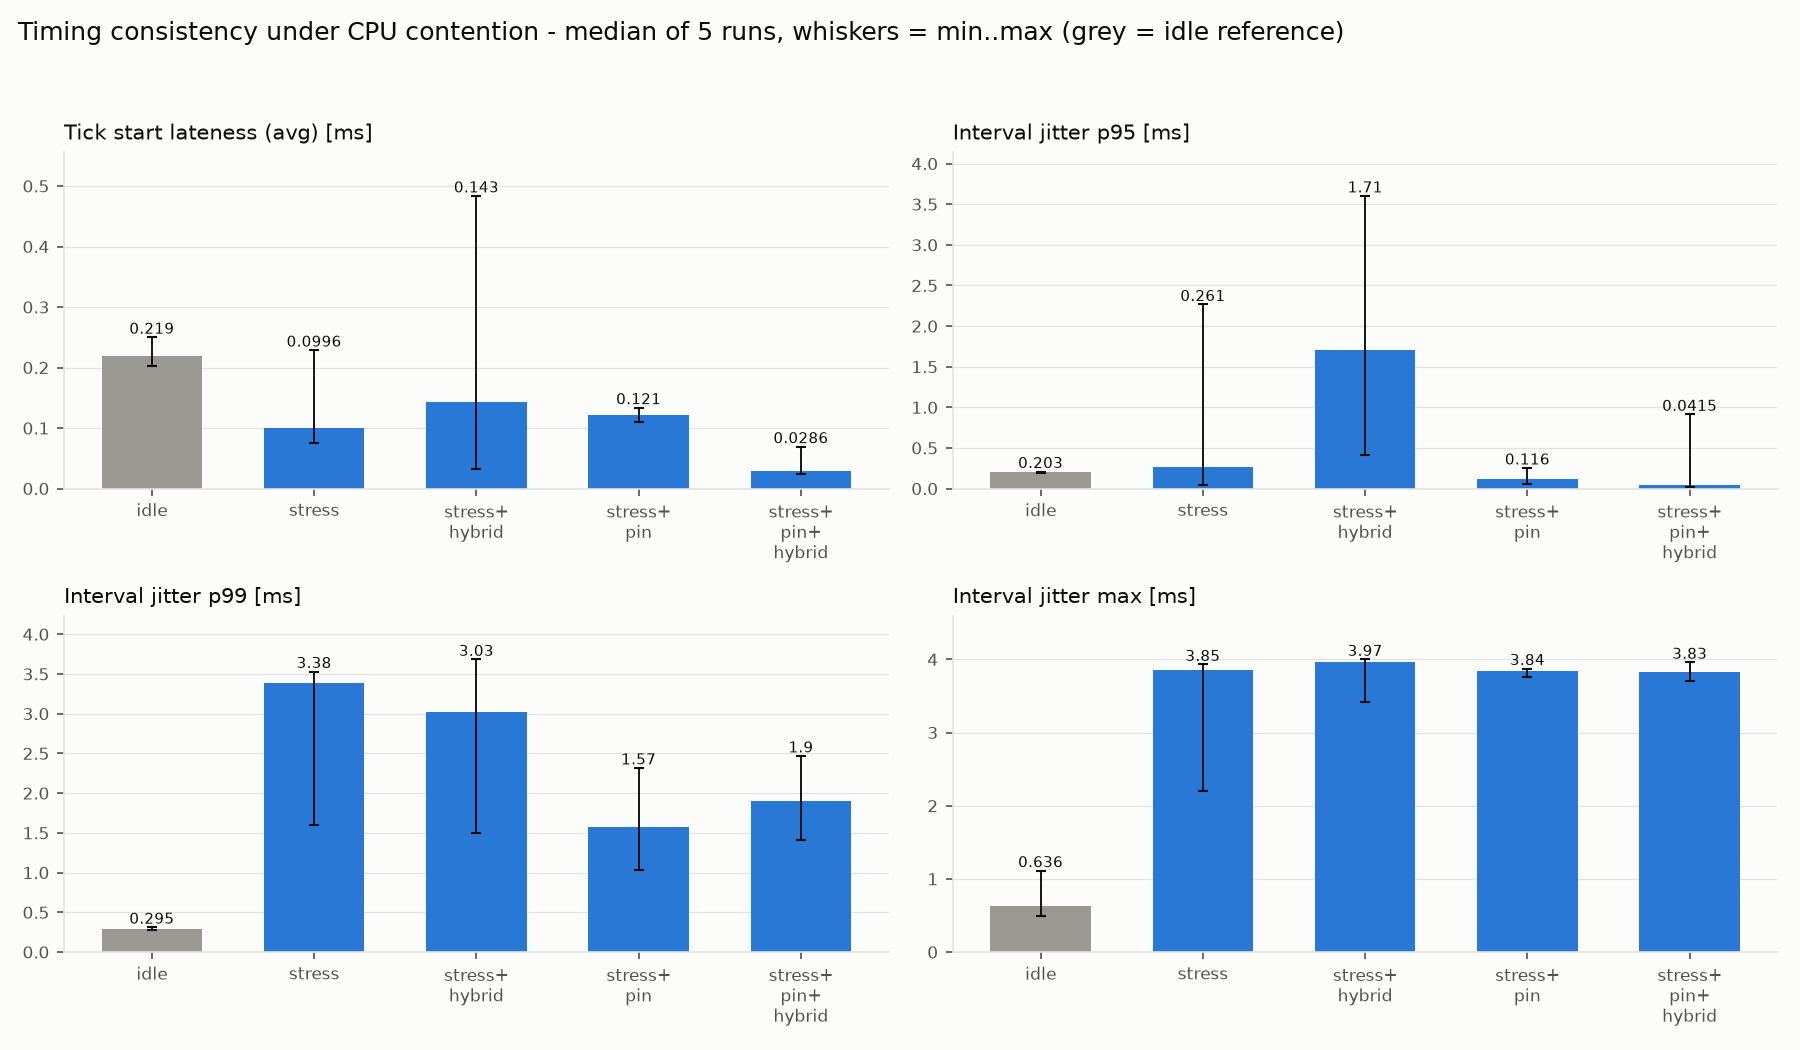
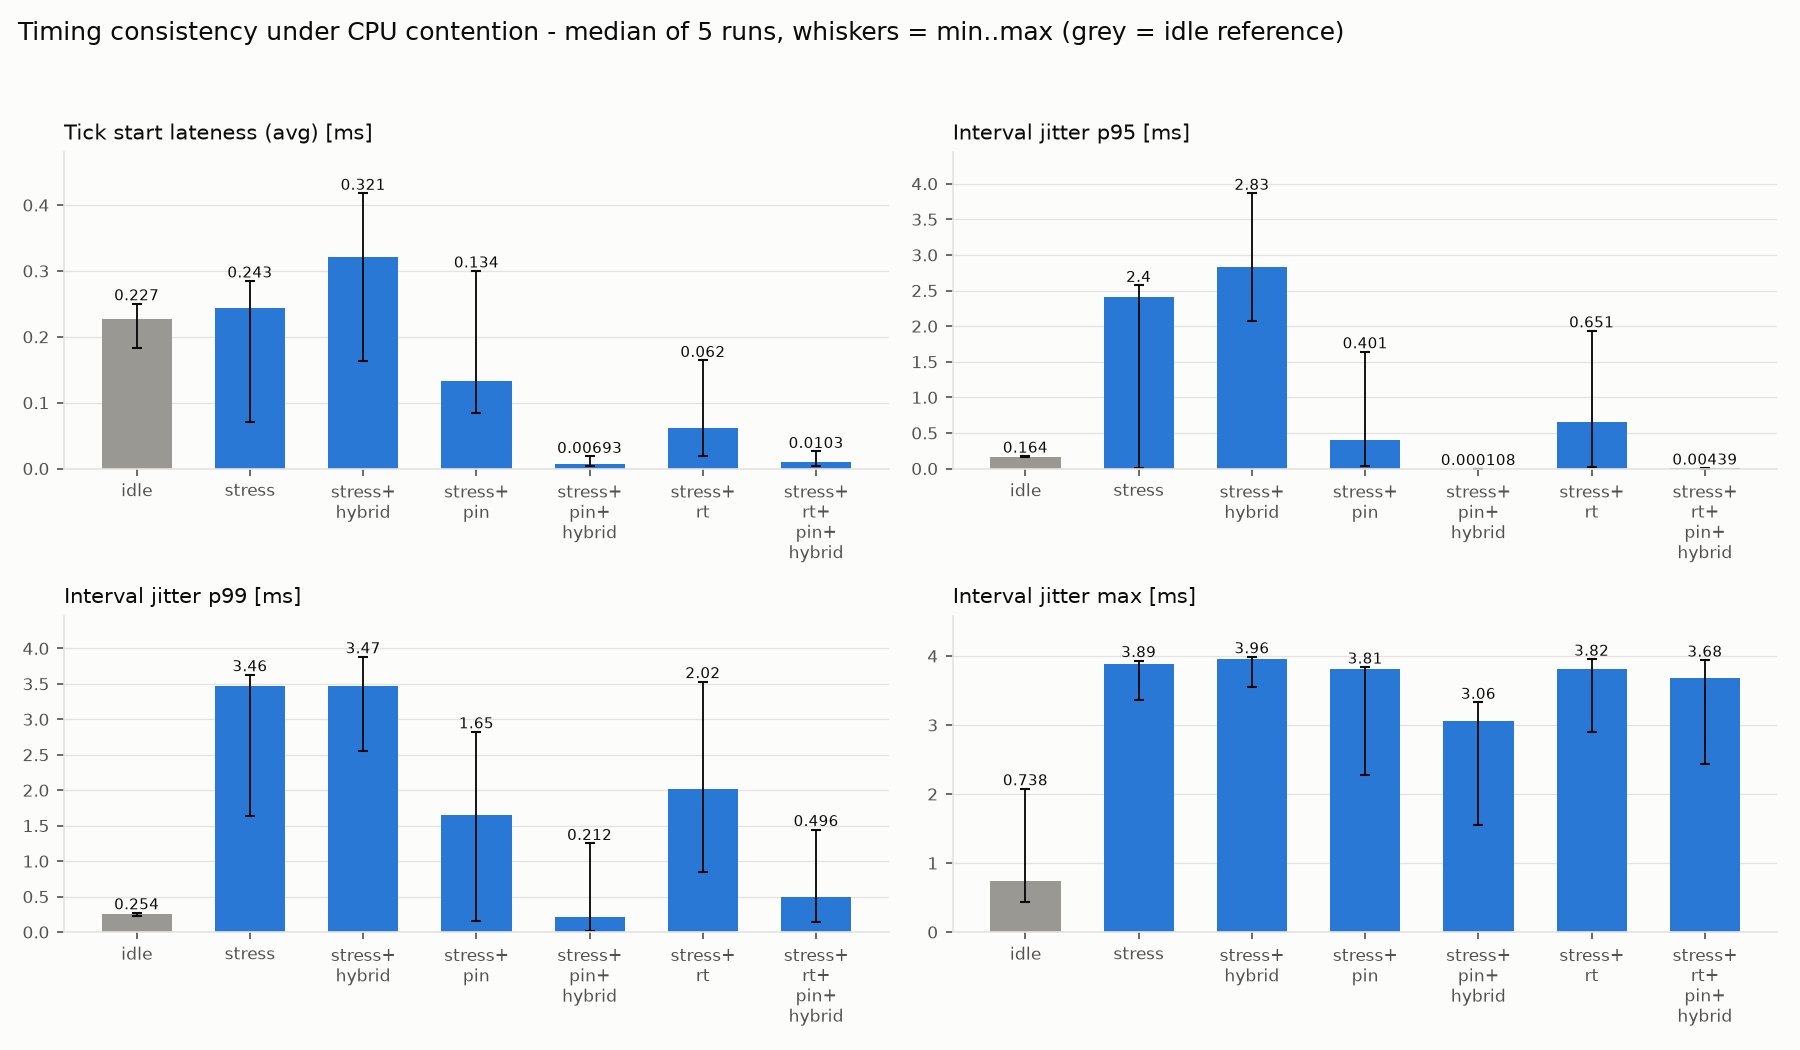
Update timing/age benchmark results with SCHED_FIFO runs
Re-run bench_extra.sh (5 x 10 s) with sudo so the stress+rt and
stress+rt+pin+hybrid configurations are included, regenerate the
summary tables and figures, and update the README results and
limitations accordingly. Also mark the shell scripts executable.

diff --git a/README.md b/README.md
@@ -109,7 +109,7 @@ Scripts run sequentially so runs do not disturb each other's timing.
 
 Arguments: runs per configuration, mode (`bench.sh` only), duration in ms.
 `bench_extra.sh` skips the `SCHED_FIFO` configurations when they are not
-permitted.
+permitted; run it with `sudo` to include them.
 
 Plots need Python with `pandas` and `matplotlib`:
 
@@ -147,17 +147,27 @@ Median of 5 runs of 10 s each, WSL2, sleep mode. Details and error bars are in
 
 | Configuration | Start lateness avg | Jitter p95 | Jitter p99 | Jitter max |
 |---|---|---|---|---|
-| idle | 0.22 ms | 0.20 ms | 0.30 ms | 0.64 ms |
-| stress | 0.10 | 0.26 | 3.38 | 3.85 |
-| stress + hybrid | 0.14 | 1.71 | 3.03 | 3.97 |
-| stress + pin | 0.12 | 0.12 | 1.57 | 3.84 |
-| stress + pin + hybrid | 0.03 | 0.04 | 1.90 | 3.83 |
+| idle | 0.23 ms | 0.16 ms | 0.25 ms | 0.74 ms |
+| stress | 0.24 | 2.40 | 3.46 | 3.89 |
+| stress + hybrid | 0.32 | 2.83 | 3.47 | 3.96 |
+| stress + pin | 0.13 | 0.40 | 1.65 | 3.81 |
+| stress + pin + hybrid | 0.007 | 0.0001 | 0.21 | 3.06 |
+| stress + RT | 0.06 | 0.65 | 2.02 | 3.82 |
+| stress + RT + pin + hybrid | 0.010 | 0.004 | 0.50 | 3.68 |
 
-Pinning to an isolated core helps; spinning without isolation hurts; rare
-3-4 ms outliers remain in every configuration (cause not established).
+(RT = `SCHED_FIFO` priority 80, run with `sudo`; stress = 40 busy threads.)
+
+- Pinning to an isolated core helps most; combined with hybrid wait the p99
+  jitter drops to ~0.2-0.5 ms.
+- `SCHED_FIFO` alone helps less than pinning: RT priority preempts the load
+  threads, but the vCPU itself is still shared with them.
+- Spinning without isolation hurts.
+- Unpinned `stress` runs vary a lot between runs (p95 from 0.01 to 2.6 ms).
+- Rare 3-4 ms outliers remain in every configuration, including RT + pin;
+  most likely the WSL2 hypervisor preempting the vCPU (not proven).
 
 **Max-age policy under delayed delivery:** a 20 ms limit cuts the maximum
-published data age from 96 ms to 18.5 ms at the cost of 30% of ticks with
+published data age from 100 ms to 18.5 ms at the cost of 30% of ticks with
 nothing published.
 
 ## Limitations
@@ -166,7 +176,8 @@ nothing published.
   magnitude, not precise figures.
 - Measured on WSL2 (a hypervisor sits under the Linux kernel), not on a
   real-time OS.
-- `SCHED_FIFO` and `mlockall` were not tested (insufficient privileges in the
-  test environment); the code reports and ignores such failures.
+- `SCHED_FIFO` was benchmarked (with `sudo`); `mlockall` was not, because
+  `bench_extra.sh` does not pass `--mlock`. Without privileges the code
+  reports and ignores such failures.
 - Load is simulated (sleep or busy loop), not real signal processing.
 - Mutex-protected buffers; no lock-free implementation.

diff --git a/results/timing/summary_table.md b/results/timing/summary_table.md
@@ -1,7 +1,9 @@
 | config | start_late_avg_ms | jitter_p95_ms | jitter_p99_ms | jitter_max_ms | deadline_misses | rt_applied | pin_applied |
 |---|---|---|---|---|---|---|---|
-| idle | 0.219 | 0.203 | 0.295 | 0.636 | 0 | 0 | 0 |
-| stress | 0.0996 | 0.261 | 3.38 | 3.85 | 0 | 0 | 0 |
-| stress+hybrid | 0.143 | 1.71 | 3.03 | 3.97 | 0 | 0 | 0 |
-| stress+pin | 0.121 | 0.116 | 1.57 | 3.84 | 0 | 0 | 1 |
-| stress+pin+hybrid | 0.0286 | 0.0415 | 1.9 | 3.83 | 0 | 0 | 1 |
+| idle | 0.227 | 0.164 | 0.254 | 0.738 | 0 | 0 | 0 |
+| stress | 0.243 | 2.4 | 3.46 | 3.89 | 0 | 0 | 0 |
+| stress+hybrid | 0.321 | 2.83 | 3.47 | 3.96 | 0 | 0 | 0 |
+| stress+pin | 0.134 | 0.401 | 1.65 | 3.81 | 0 | 0 | 1 |
+| stress+pin+hybrid | 0.00693 | 0.000108 | 0.212 | 3.06 | 0 | 0 | 1 |
+| stress+rt | 0.062 | 0.651 | 2.02 | 3.82 | 0 | 1 | 0 |
+| stress+rt+pin+hybrid | 0.0103 | 0.00439 | 0.496 | 3.68 | 0 | 1 | 1 |

diff --git a/results/age/summary_table.md b/results/age/summary_table.md
@@ -1,6 +1,6 @@
 | config | data_age_avg_ms | data_age_max_ms | withheld_pct | underrun_pct | pub_late_avg_ms |
 |---|---|---|---|---|---|
-| age-off | 15.5 | 96.2 | 0 | 42.2 | 0.225 |
-| age-40 | 12.5 | 38.4 | 7 | 42.8 | 0.208 |
-| age-20 | 7.85 | 18.5 | 30.5 | 42.5 | 0.173 |
-| age-10 | 6.11 | 8.63 | 47.4 | 42.7 | 0.212 |
+| age-off | 15.5 | 100 | 0 | 42.6 | 0.236 |
+| age-40 | 12.5 | 38.4 | 7.28 | 42.3 | 0.246 |
+| age-20 | 7.99 | 18.5 | 30.5 | 42.5 | 0.24 |
+| age-10 | 6.07 | 8.6 | 47.2 | 42.7 | 0.238 |
